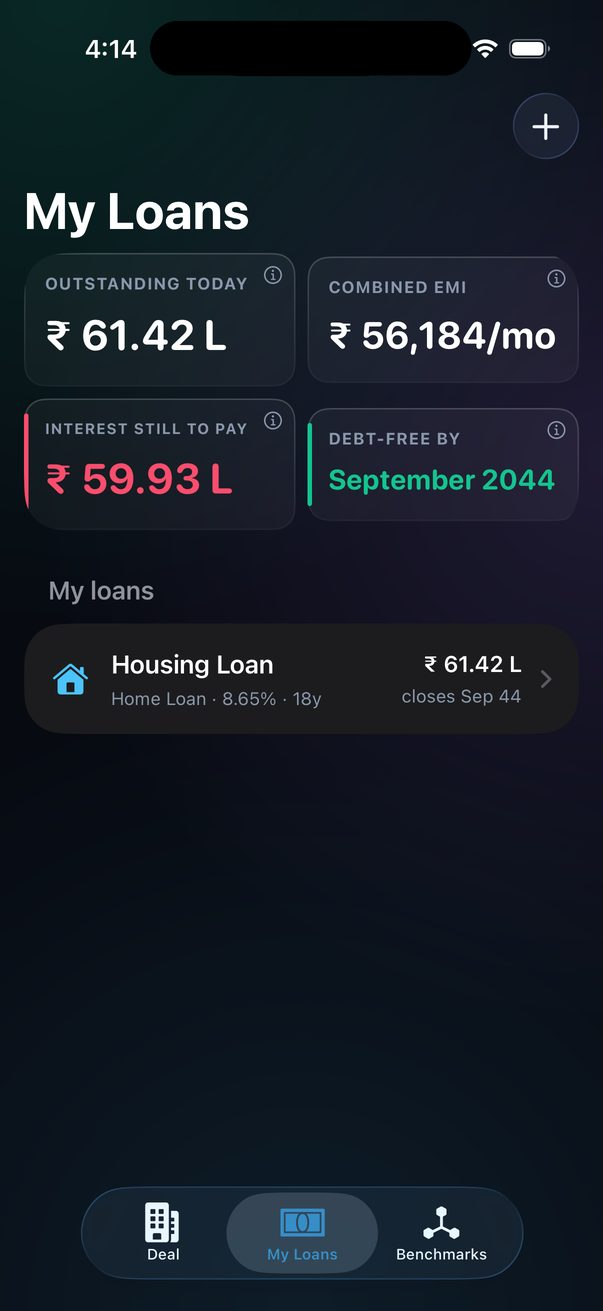
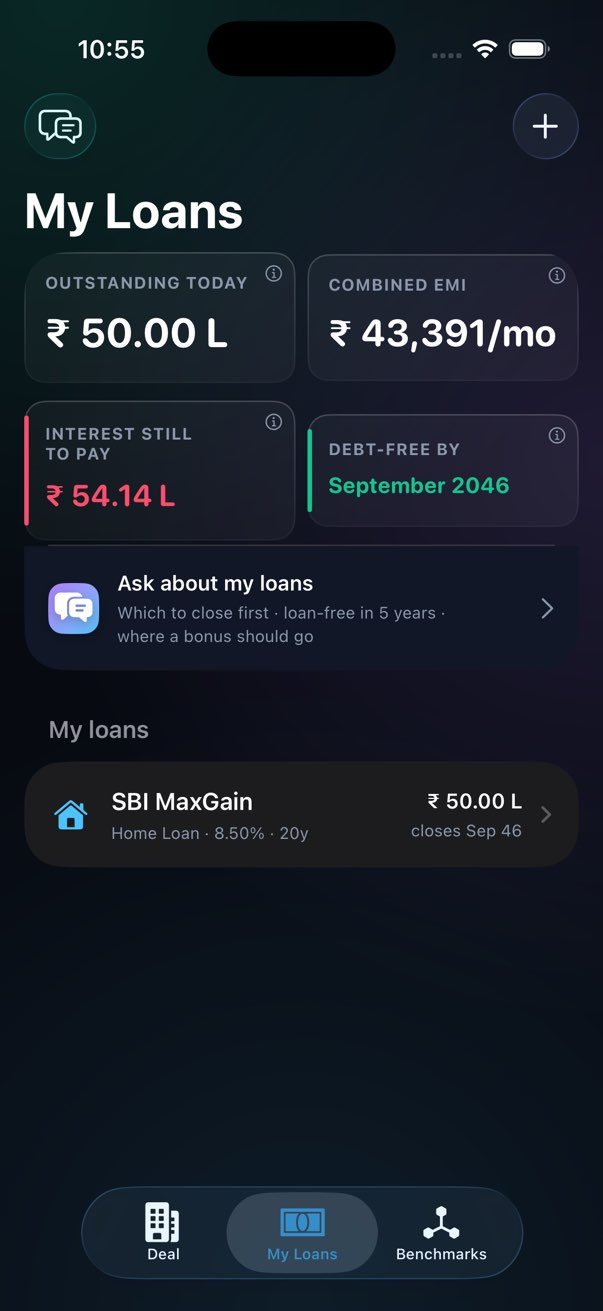
Refresh LoanYield IQ guide screenshots for property kind, payoff workspace, advisor, charts and settings
Captures the newest features that had no illustration yet: buying-a/price-basis picker, the
step-up/prepayment payoff workspace, the loan advisor chat, the Cash flow/Wealth chart tabs, and
the iCloud sync + backup settings screen. Also swaps the stale My Loans dashboard shot for a
current one that shows the advisor entry point.

diff --git a/loanyieldiq/guide/index.html b/loanyieldiq/guide/index.html
@@ -668,6 +668,7 @@
         <tr><td><strong>By year</strong></td><td>Net cash flow for each year after handover, as bars.</td><td>How many years you top up from salary, and by how much.</td></tr>
       </tbody>
     </table></div>
+    <div class="fig-row"><figure class="fig"><img src="/assets/screenshots/loanyieldiq/guide-chart-cashflow.jpg" alt="The Cash flow tab: rent minus EMI, property tax and income tax, month by month." loading="lazy"><figcaption>Cash flow — the shaded block is the pre-EMI gestation period.</figcaption></figure><figure class="fig"><img src="/assets/screenshots/loanyieldiq/guide-chart-wealth.jpg" alt="The Wealth tab: property value vs loan left, with the break-even year marked." loading="lazy"><figcaption>Wealth — property value, loan left, and the break-even marker.</figcaption></figure></div>
     <div class="callout tip"><div class="callout-icon">💡</div><div class="callout-body"><div class="callout-title">Lump sums are not on the cash line</div><p>A ₹5 L prepayment would dwarf every monthly bar, so the cash line shows recurring cash only. Prepayments are shown as diamonds on the loan curve, and they <em>are</em> included in the return and break-even calculations.</p></div></div>
   </section>
 
@@ -708,6 +709,7 @@
         <tr><td><strong>Expected monthly rent</strong></td><td>Today's rent for this flat. Escalates yearly; vacancy is deducted.</td></tr>
       </tbody>
     </table></div>
+    <figure class="fig"><img src="/assets/screenshots/loanyieldiq/guide-property-kind.jpg" alt="Buying a Flat, Shop or Plot, and Price quoted as Agreement value or All-in." loading="lazy"><figcaption>Buying a flat, shop or plot — and whether the price you have is the agreement value or the builder's all-in figure.</figcaption></figure>
     <h3>Every control works the same way</h3>
     <p>Label on the first line, slider plus a typed box on the second. The slider is for what-ifs; the box is for the exact number you know. Money boxes have ₹ / L / Cr unit chips; you can also type <code>85L</code> or <code>1.2Cr</code> directly.</p>
     <div class="table-wrap"><table>
@@ -876,7 +878,7 @@
     </table></div>
     <p>With a date set, every schedule row is labelled with its calendar month, the list shows when each loan closes, and the portfolio tiles show outstanding today, interest still to pay and the month you'll be debt-free.</p>
     <p>A loan imported with schedule rows shows a green banner in its workspace — "N months from your bank's schedule" — and its schedule uses those actual rows for the paid months (dimmed, with a TODAY marker) before projecting the rest. The ⋯ menu on the banner removes the imported rows if you'd rather use the headline terms.</p>
-    <figure class="fig"><img src="/assets/screenshots/loanyieldiq/guide-my-loans.jpg" alt="My Loans after importing a statement: outstanding today, combined EMI, interest still to pay, and the debt-free month." loading="lazy"><figcaption>My Loans after importing a statement: outstanding today, combined EMI, interest still to pay, and the debt-free month.</figcaption></figure>
+    <figure class="fig"><img src="/assets/screenshots/loanyieldiq/guide-my-loans.jpg" alt="My Loans: outstanding today, combined EMI, interest still to pay, the debt-free month, and the Ask about my loans card." loading="lazy"><figcaption>My Loans: the portfolio tiles and the Ask about my loans card.</figcaption></figure>
     <h3>The payoff workspace</h3>
     <p>Tap a loan to open its workspace. Everything you change here is a <strong>scenario</strong>: the impact is computed live against your saved plan, but the loan itself isn't touched until you tap <strong>Save</strong>. Leave the screen or tap <strong>Reset</strong> and it stays analysis-only — so you can ask "what if I prepaid ₹2 L this Diwali?" without committing to it.</p>
     <div class="table-wrap"><table>
@@ -891,6 +893,7 @@
         <tr><td><strong>Schedule</strong></td><td>First 12 months inline; the full month-by-month schedule in a sheet, both reflecting the scenario.</td></tr>
       </tbody>
     </table></div>
+    <div class="fig-row"><figure class="fig"><img src="/assets/screenshots/loanyieldiq/guide-workspace.jpg" alt="The payoff workspace: impact tiles, the plain-vs-scenario balance chart, and the step-up switch." loading="lazy"><figcaption>The payoff workspace — impact tiles, the balance chart, and step-up.</figcaption></figure><figure class="fig"><img src="/assets/screenshots/loanyieldiq/guide-schedule-prepay.jpg" alt="The month-by-month schedule with a plus button in the Prepay column on every row." loading="lazy"><figcaption>The schedule — tap "+" in Prepay on any month.</figcaption></figure></div>
     <div class="callout tip"><div class="callout-icon">💡</div><div class="callout-body"><div class="callout-title">Two ways to use it</div><p><em>Planning:</em> add your realistic prepayments and step-up, tap Save, and the loan's debt-free month becomes the one you're actually tracking. <em>Analysis:</em> pile on aggressive what-ifs, read the impact, and walk away — nothing is stored.</p></div></div>
     <div class="callout tip"><div class="callout-icon">🗣</div><div class="callout-body"><div class="callout-title">Siri</div><p>"Ask LoanYield IQ what happens if I prepay" — Siri asks for the amount in lakhs and the month, and tells you the interest and months saved on your first standalone loan.</p></div></div>
   </section>
@@ -969,6 +972,7 @@
       </tbody>
     </table></div>
     <p>Answers that point at a loan carry an <strong>Open this loan</strong> button that jumps to its workspace, where you can turn the suggestion into a scenario and save it. Suggestion chips under the chat cover the common questions.</p>
+    <div class="fig-row"><figure class="fig"><img src="/assets/screenshots/loanyieldiq/guide-advisor-intro.jpg" alt="Ask about my loans: the questions it can answer, all computed from the amortization engine." loading="lazy"><figcaption>What it can answer — every number from the engine, not a guess.</figcaption></figure><figure class="fig"><img src="/assets/screenshots/loanyieldiq/guide-advisor-answer.jpg" alt="An answer to 'Which loan should I close first?' with the avalanche-order table and an Open this loan button." loading="lazy"><figcaption>"Which loan should I close first?" — with the avalanche order and an Open this loan button.</figcaption></figure></div>
     <div class="callout note"><div class="callout-icon">🔒</div><div class="callout-body"><div class="callout-title">Privacy</div><p>Computed answers never leave your phone. Free-form questions and takeaways go to Apple's on-device model, or to your own cloud key if you added one — and only as the engine's fact sheet plus your question.</p></div></div>
   </section>
 
@@ -1001,6 +1005,7 @@
         <tr><td><strong>Advanced: bring your own AI key</strong></td><td>Optional. Expand to pick Anthropic Claude, Google Gemini or OpenAI and paste a key. Keys are stored in the iOS Keychain (after-first-unlock, this device only) and used only to call that provider directly. The model name is editable.</td></tr>
       </tbody>
     </table></div>
+    <figure class="fig"><img src="/assets/screenshots/loanyieldiq/guide-settings.jpg" alt="Settings: Sync with iCloud toggle and status, and Export backup / Import backup." loading="lazy"><figcaption>Your data: iCloud sync and JSON backup, side by side.</figcaption></figure>
     <div class="callout warn"><div class="callout-icon">🔐</div><div class="callout-body"><div class="callout-title">You don't need a key</div><p>The memo works without one. Cloud keys are for people who already have them; the app never sends your deal anywhere unless you add a key and press Generate.</p></div></div>
   </section>
 

diff --git a/loanyieldiq/index.html b/loanyieldiq/index.html
@@ -250,7 +250,7 @@
         </div>
 
         <div class="ly-spot flip">
-          <div class="ly-shot"><img src="/assets/screenshots/loanyieldiq/guide-my-loans.jpg" alt="My Loans with an imported loan: outstanding today, combined EMI, interest still to pay, debt-free month" loading="lazy"></div>
+          <div class="ly-shot"><img src="/assets/screenshots/loanyieldiq/guide-my-loans.jpg" alt="My Loans: outstanding today, combined EMI, interest still to pay, debt-free month, and the Ask about my loans advisor" loading="lazy"></div>
           <div class="ly-copy">
             <div class="ly-eyebrow">My Loans</div>
             <h2>The loan you already have, finally understood.</h2>
